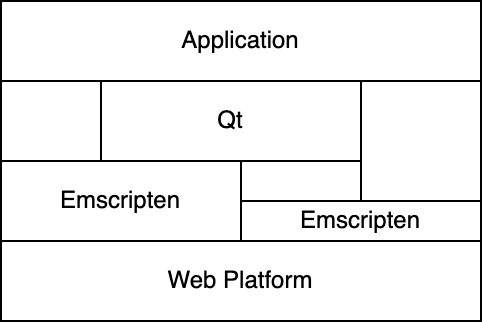
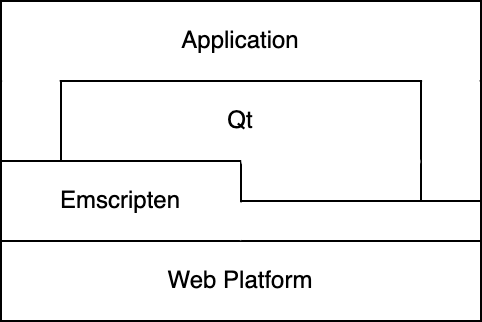
update layers diagram and explainer

diff --git a/slate/slate.html b/slate/slate.html
@@ -15,7 +15,7 @@
 
 <img src="qt-wasm-layers.png" width=400px class="center" style="padding:15px">
 
-<p>There are a couple of things to take note of here. First, we are building on the "Web" platform and ignore everything below, since web browsers will abstract this away from us. Second, Emscripten is listed twice, as a thick and a thin layer. This reflects the different ways to use it: as a provider of the libc & POSIX platform implementation and as an interface layer to the web platform. Finally, Qt is in the center (this is a Qt blog after all) but does not cover all functionality the app might need.
+<p>There are a couple of things to take note of here. First, we are building on the "Web" platform and ignore everything below, since web browsers will abstract this away from us. Second, Emscripten has a thick and a thin layer. This reflects the different ways to use it: as a provider of the libc & POSIX platform implementation and as an interface layer to the web platform. Finally, Qt is in the center (this is a Qt blog after all) but does not cover all functionality the app might need.
 
 <h2>Getting Started</h2>
 
